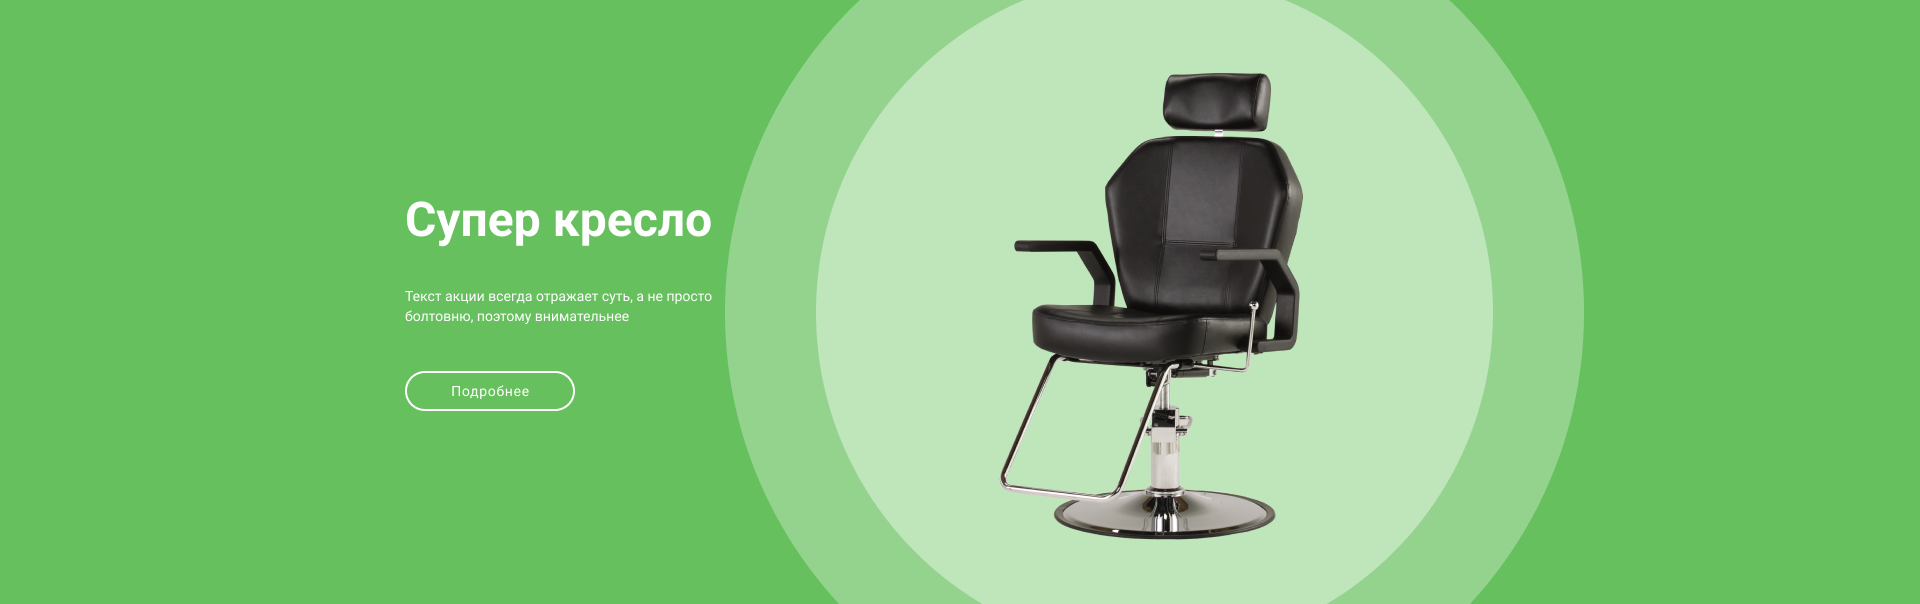
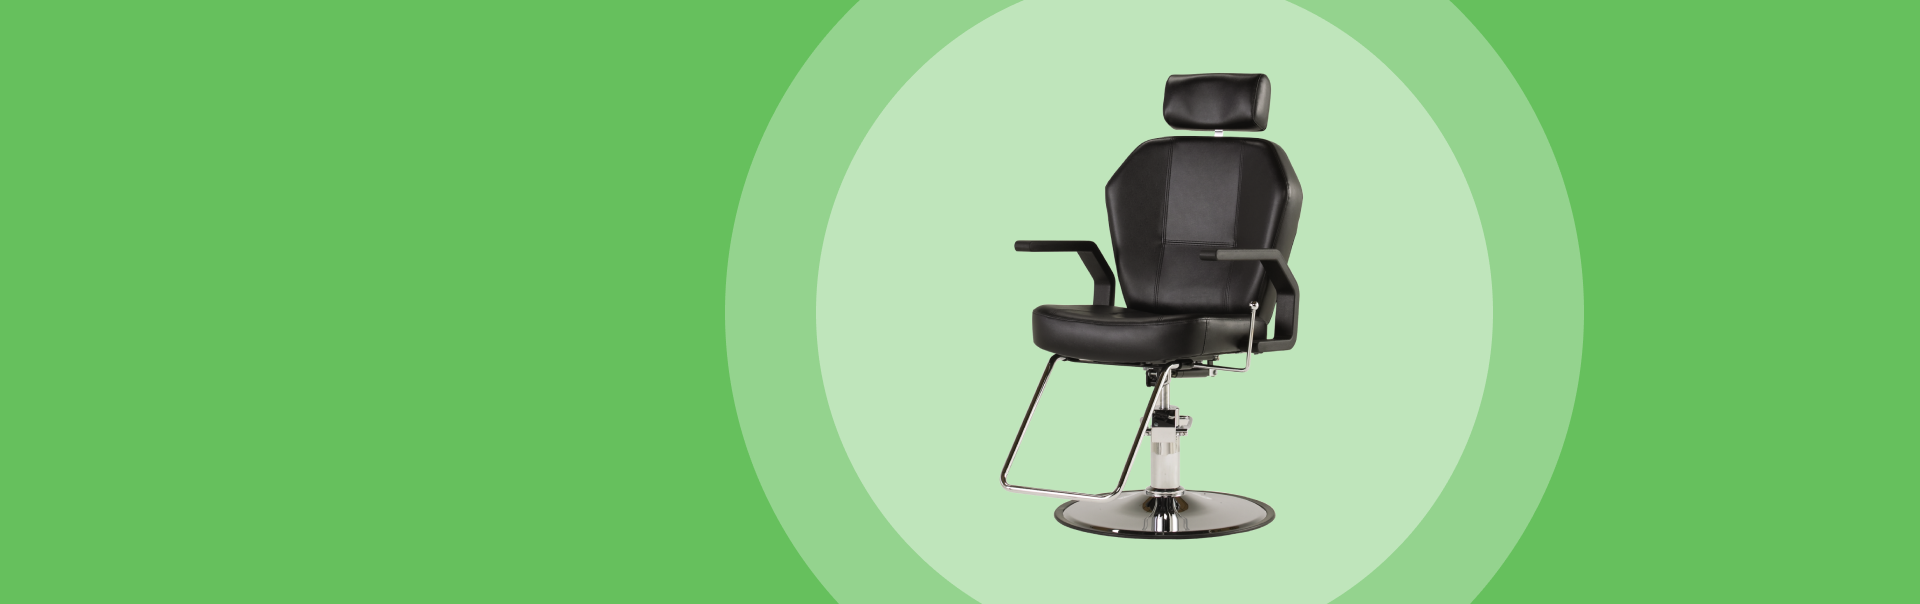
page inspector

Changed region(s): [[0.1875, 0.3278, 0.375, 0.4172], [0.2188, 0.4768, 0.375, 0.5364], [0.2188, 0.596, 0.2812, 0.6854]]

diff --git a/index.html b/index.html
@@ -28,7 +28,7 @@
             <div class="header">
                 <div class="wrapper">
                     <div class="header-top">
-                        <div class="logo">BEAUTY</div>
+                        <div class="logo"><span class="logo-image"></span><span>BEAUTY</span> </div>
                         <div class="header-info">
                             <span>8(800)555-35-35</span>
                             <button type="button">Обратный звонок</button>
@@ -40,11 +40,11 @@
                     <div class="header-bottom">
                         <ul class="nav">
                             <li><a href="">Парикмахерская</a></li>
-                            <li><a href=""></a>Барбершоп</li>
-                            <li><a href=""></a>Маникюр</li>
-                            <li><a href=""></a>Педикюр</li>
-                            <li><a href=""></a>Массаж</li>
-                            <li><a href=""></a>Мебель</li>
+                            <li><a href="">Барбершоп</a></li>
+                            <li><a href="">Маникюр</a></li>
+                            <li><a href="">Педикюр</a></li>
+                            <li><a href="">Массаж</a></li>
+                            <li><a href="">Мебель</a></li>
                         </ul>
                     </div>
                 </div>
@@ -53,5 +53,13 @@
         </div>
         
     </header>
+    <section class="banner">
+        <div class="wrapper">
+            <h1 class="title">Супер кресло</h1>
+            <p>Текст акции всегда отражает суть, а не просто болтовню, поэтому внимательнее</p>
+            <a class="btn" href="#">Подробнее</a>
+        </div>
+
+    </section>
 </body>
 </html>

diff --git a/CSS/styles.css b/CSS/styles.css
@@ -14,30 +14,40 @@ body {
     display: flex;
     justify-content: center;
     list-style-type: none;
-    padding-left: 0;
+    padding: 5px;
 }
 .nav > li {
-    margin-left: 10px;
-    margin-right: 10px;
+    margin-left: 16px;
+    margin-right: 15px;
 }
 .nav > li > a {
     text-decoration: none;
     color: #333333;
 }
 .header {
-    
     background-color: #fff;
+    padding-top: 10px;
 }
 .header-top {
     display: flex;
     justify-content: space-between;
     align-items: center;
-    padding: 10px 0;
+    padding: 8px 0;
 }
 .logo {
     color: #66C05D;
     font-size: 36px;
     font-weight: 700;
+    display: flex;
+    align-items: center;
+    letter-spacing: 3px;
+}
+.logo-image {
+    display: block;
+    width: 80px;
+    height: 80px;
+    background-image: url(../img/logo.svg);
+    margin-right: 22px;
 }
 .header-info span {
     font-size: 16px;
@@ -49,7 +59,7 @@ body {
     border: 2px solid #66C05D;
     background-color: transparent;
     padding: 10px 15px;
-    margin-left: 20px;
+    margin-left: 62px;
 }
 .heaader-bottom {
     padding: 15px 0;
@@ -63,3 +73,28 @@ body {
     background-color: #fff;
     height: 1px;
 }
+.title {
+    font-size: 48px;
+    font-weight: 700;
+    }
+.banner p{
+    margin-bottom: 50px;
+    max-width: 308px;
+    }
+.banner {
+    background-image: url(../img/bg.png);
+    background-repeat: no-repeat;
+    background-size: cover;
+    background-position: center center;
+    color: #fff;
+    padding-top: 150px;
+    padding-bottom: 150px;
+}
+.btn {
+    color: #fff;
+    text-decoration: none;
+    border-radius: 20px;
+    border: 2px solid #fff;
+    background-color: transparent;
+    padding: 10px 15px;
+    }
